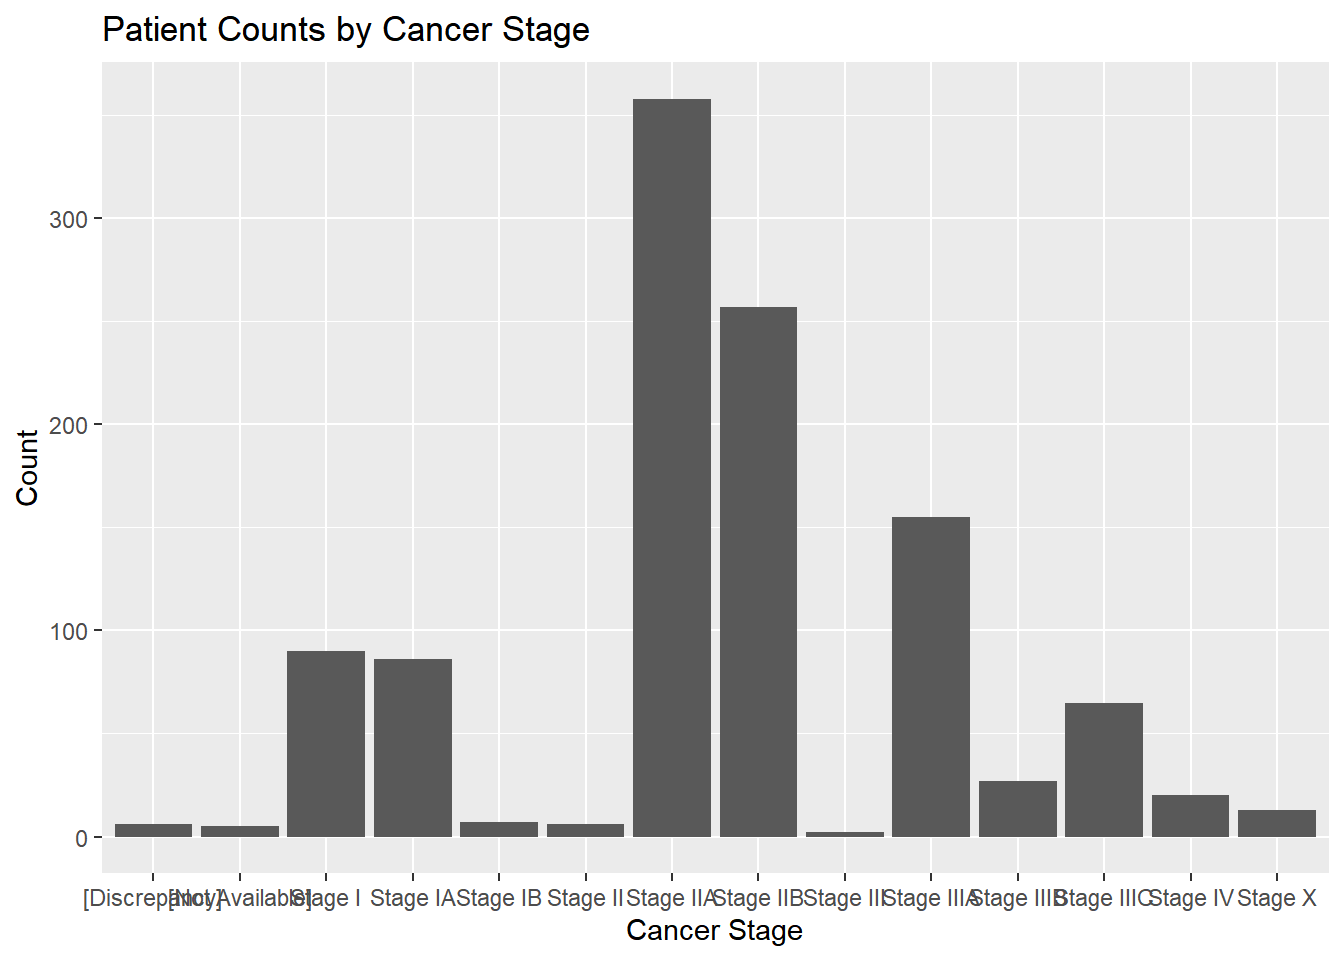
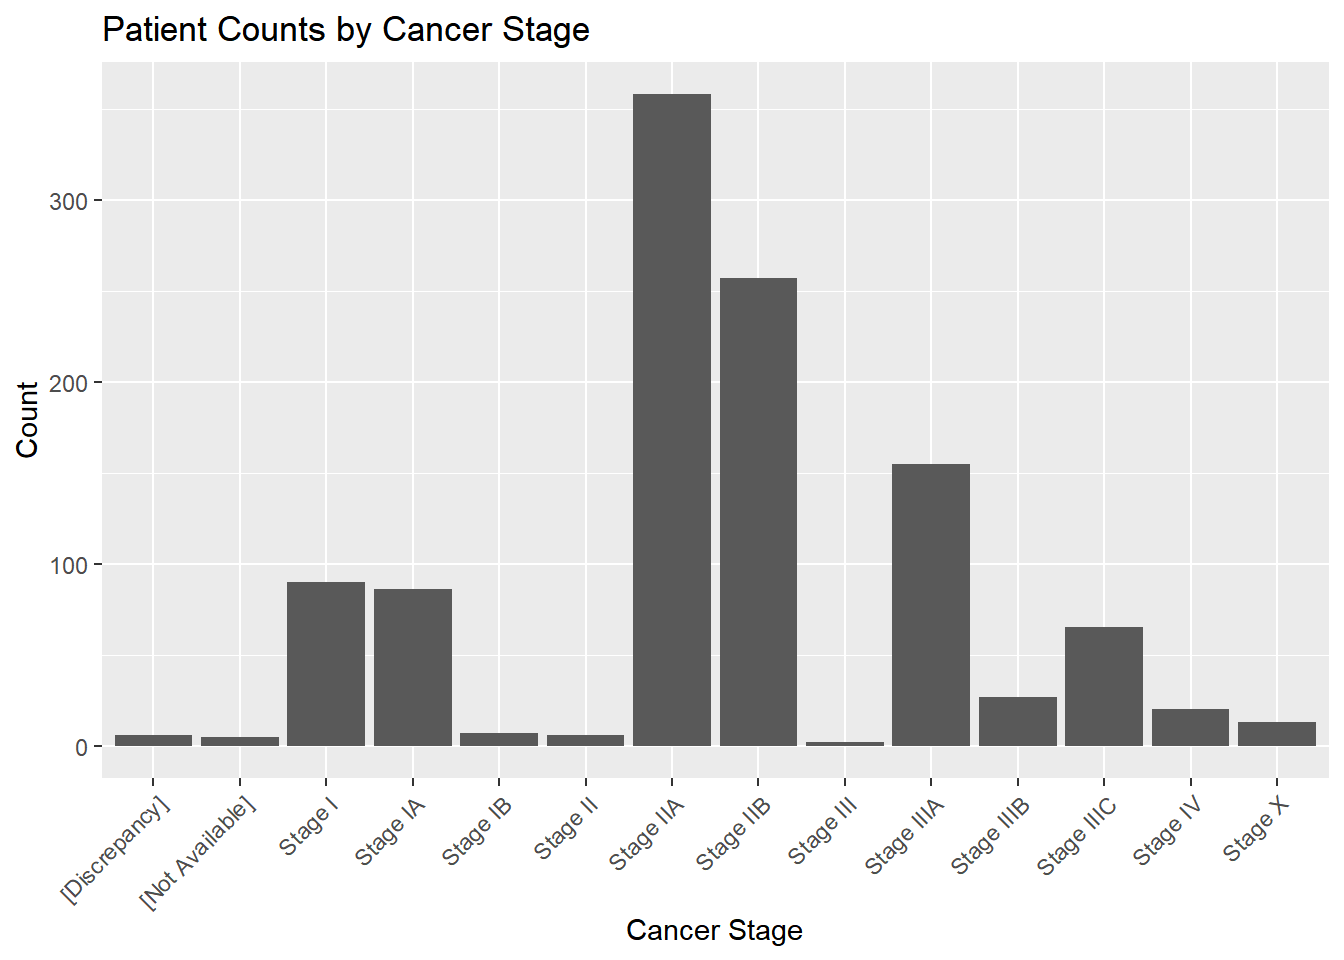
Build site.

diff --git a/docs/index.html b/docs/index.html
@@ -434,13 +434,13 @@ project makes it easier to run your code on other machines.</p>
 <div class="panel panel-default">
 <div class="panel-heading">
 <p class="panel-title">
-<a data-toggle="collapse" data-parent="#workflowr-checks" href="#strongRepositoryversionstrong59a66fb">
+<a data-toggle="collapse" data-parent="#workflowr-checks" href="#strongRepositoryversionstrong6ac1025">
 <span class="glyphicon glyphicon-ok text-success"
-aria-hidden="true"></span> <strong>Repository version:</strong> 59a66fb
+aria-hidden="true"></span> <strong>Repository version:</strong> 6ac1025
 </a>
 </p>
 </div>
-<div id="strongRepositoryversionstrong59a66fb"
+<div id="strongRepositoryversionstrong6ac1025"
 class="panel-collapse collapse">
 <div class="panel-body">
 <p>
@@ -449,7 +449,7 @@ and connecting the code version to the results is critical for
 reproducibility.
 </p>
 <p>
-The results in this page were generated with repository version 59a66fb.
+The results in this page were generated with repository version 6ac1025.
 See the <em>Past versions</em> tab to see a history of the changes made
 to the R Markdown and HTML files.
 </p>
@@ -508,6 +508,40 @@ Message
 </tr>
 </thead>
 <tbody>
+<tr>
+<td>
+Rmd
+</td>
+<td>
+6ac1025
+</td>
+<td>
+Anson Li
+</td>
+<td>
[phone redacted]
+</td>
+<td>
+cleanup x-axis?
+</td>
+</tr>
+<tr>
+<td>
+html
+</td>
+<td>
+39336bb
+</td>
+<td>
+Anson Li
+</td>
+<td>
[phone redacted]
+</td>
+<td>
+Build site.
+</td>
+</tr>
 <tr>
 <td>
 Rmd
@@ -802,7 +836,8 @@ Anson Li
 <pre class="r"><code># Task 5: bar chart of patient counts by cancer stage
 ggplot(dataframe, aes(x = AJCC_PATHOLOGIC_TUMOR_STAGE)) +
   geom_bar() +
-  labs(title = &quot;Patient Counts by Cancer Stage&quot;, x = &quot;Cancer Stage&quot;, y = &quot;Count&quot;)</code></pre>
+  labs(title = &quot;Patient Counts by Cancer Stage&quot;, x = &quot;Cancer Stage&quot;, y = &quot;Count&quot;) +
+  theme(axis.text.x = element_text(angle = 45, hjust = 1))</code></pre>
 <p><img src="figure/index.Rmd/analyze_data-2.png" alt="" width="672" style="display: block; margin: auto;" /></p>
 <p>
 <button type="button" class="btn btn-default btn-xs btn-workflowr btn-workflowr-fig" data-toggle="collapse" data-target="#fig-analyze_data-2">
@@ -845,7 +880,8 @@ Anson Li
 ggplot(result, aes(x=AGE, y=OS_YEARS, color=HISTOLOGICAL_DIAGNOSIS)) +
   geom_point() +
   labs(title = &quot;Age vs Survival Years by Cancer Subtype&quot;, x = &quot;Age&quot;, y = &quot;Survival Years&quot;) +
-  theme_minimal()</code></pre>
+  theme_minimal() +
+  theme(axis.text.x = element_text(angle = 45, hjust = 1))</code></pre>
 <pre><code>Warning: Removed 1 row containing missing values or values outside the scale range
 (`geom_point()`).</code></pre>
 <p><img src="figure/index.Rmd/analyze_data-3.png" alt="" width="672" style="display: block; margin: auto;" /></p>